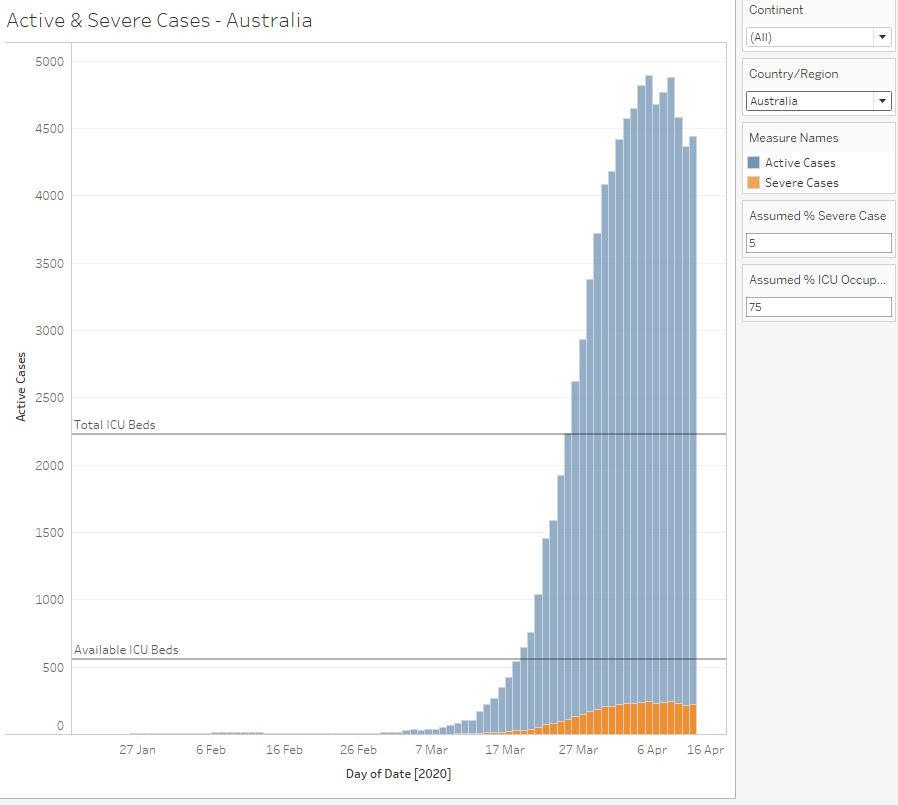
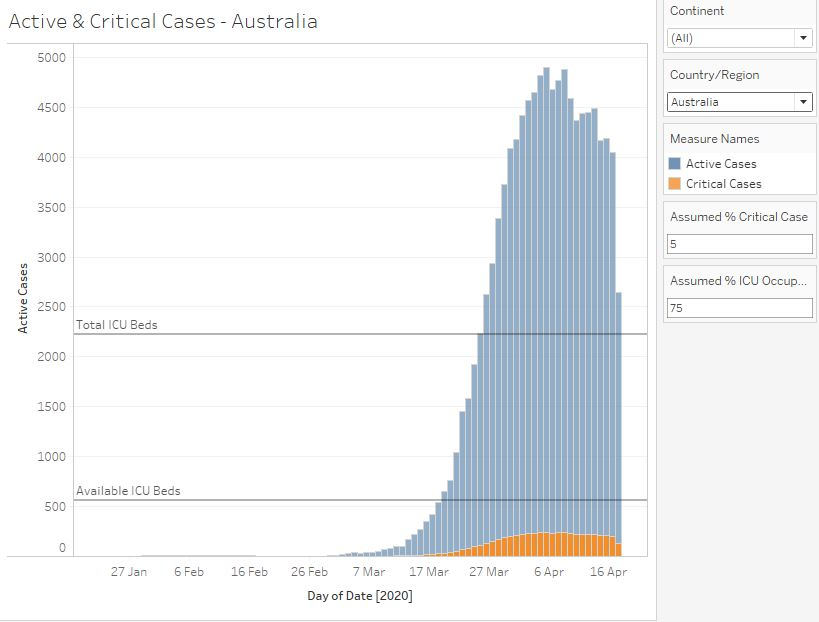
updated covid project

diff --git a/_portfolio/COVID-19.md b/_portfolio/COVID-19.md
@@ -25,7 +25,7 @@ At the start of the COVID-19 pandemic, there was a lot of wishful thinking that 
 
 Countries like the US and [Brazil](https://www.latimes.com/world-nation/story/2020-04-09/brazils-president-refuses-to-admit-that-coronavirus-poses-a-real-threat-hes), who have down played the threat of COVID-19, are now facing the consequences of an explosive growth of cases and deaths.
 
-Where as Taiwan has pretty much contained the virus with only 395 confirmed cases on 18/04/20. Their [speedy response and testing](https://www.businessinsider.com.au/coronavirus-taiwan-case-study-rapid-response-containment-2020-3?r=US&IR=T) has be come a gold standard for an epidemic response.
+Where as Taiwan has pretty much contained the virus with only 395 confirmed cases as of 18/04/20. Their [speedy response and testing](https://www.businessinsider.com.au/coronavirus-taiwan-case-study-rapid-response-containment-2020-3?r=US&IR=T) has be come a gold standard for an epidemic response.
 
 <img src='/user_images/taiwangoldstandard.JPG'>
 
@@ -48,13 +48,13 @@ Firstly, I want to stress that its impossible to accurately determine the number
 
 Secondly, countries being unable to test due to resource limitations or failing to test, will also hide the true number of cases. Countries with large populations with low number of tests performed or countries with high mortality rates suggest that true cases are much larger than confirmed cases. Again the lack of visibility will cause a false sense of security and social complacency. The most comprehensive collection of testing data I have found is from [Our World In Data](https://ourworldindata.org/covid-testing).
 
-South Korea, despite a large outbreak from a religious cult, has managed to contain the virus through an aggressive testing scheme.
+South Korea, despite having a large outbreak from a religious cult, has managed to contain the virus through an aggressive testing scheme.
 
 On the other hand, the Japanese government has been heavily criticised for its lack of testing.
 
 <img src="/user_images/testing.JPG"/>
 
-Additionally, not all asymptomatic or mild carriers will be tested and could recover by themselves.
+Additionally, not all asymptomatic or mild carriers will be tested.
 
 <img src="/user_images/critical.png" width="500px"/>
 
@@ -73,7 +73,7 @@ The popular flatten the curve illustration shows two types of pandemics: the fir
 
 There are catastrophic consequences when a country's medical capacity is overwhelmed.
 
-<img src="/user_images/Active and Severe Cases US.JPG"/>
+<img src="/user_images/Active and Severe Cases ITL.JPG"/>
 
 ### The Future
 I hope I've conveyed the gravity of the current situation. Everyone needs to do their part to help contain the spread of COVID-19 through hand washing, social distancing, remote work and reducing unnecessary trips. I want to encourage everyone that staying at home and self isolating is extremely important and vital in slowing the spread of COVID-19. This in turns reduces the stress on medical systems and saves lives. My greatest appreciation to all the medical staff and anyone else combating COVID-19.
